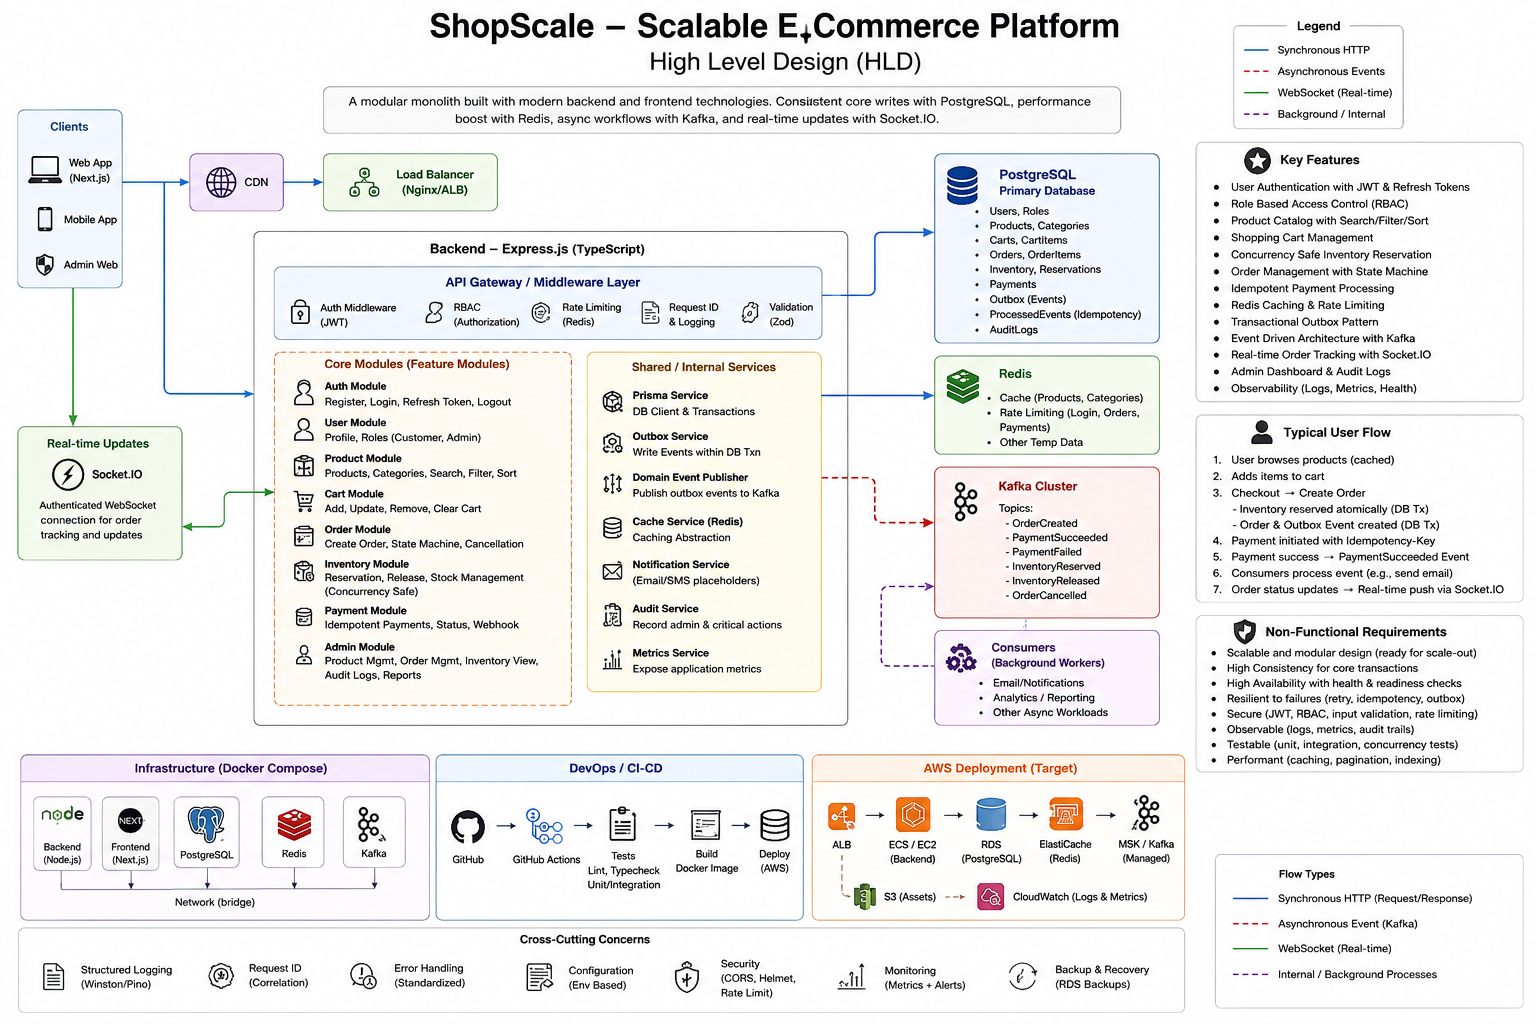
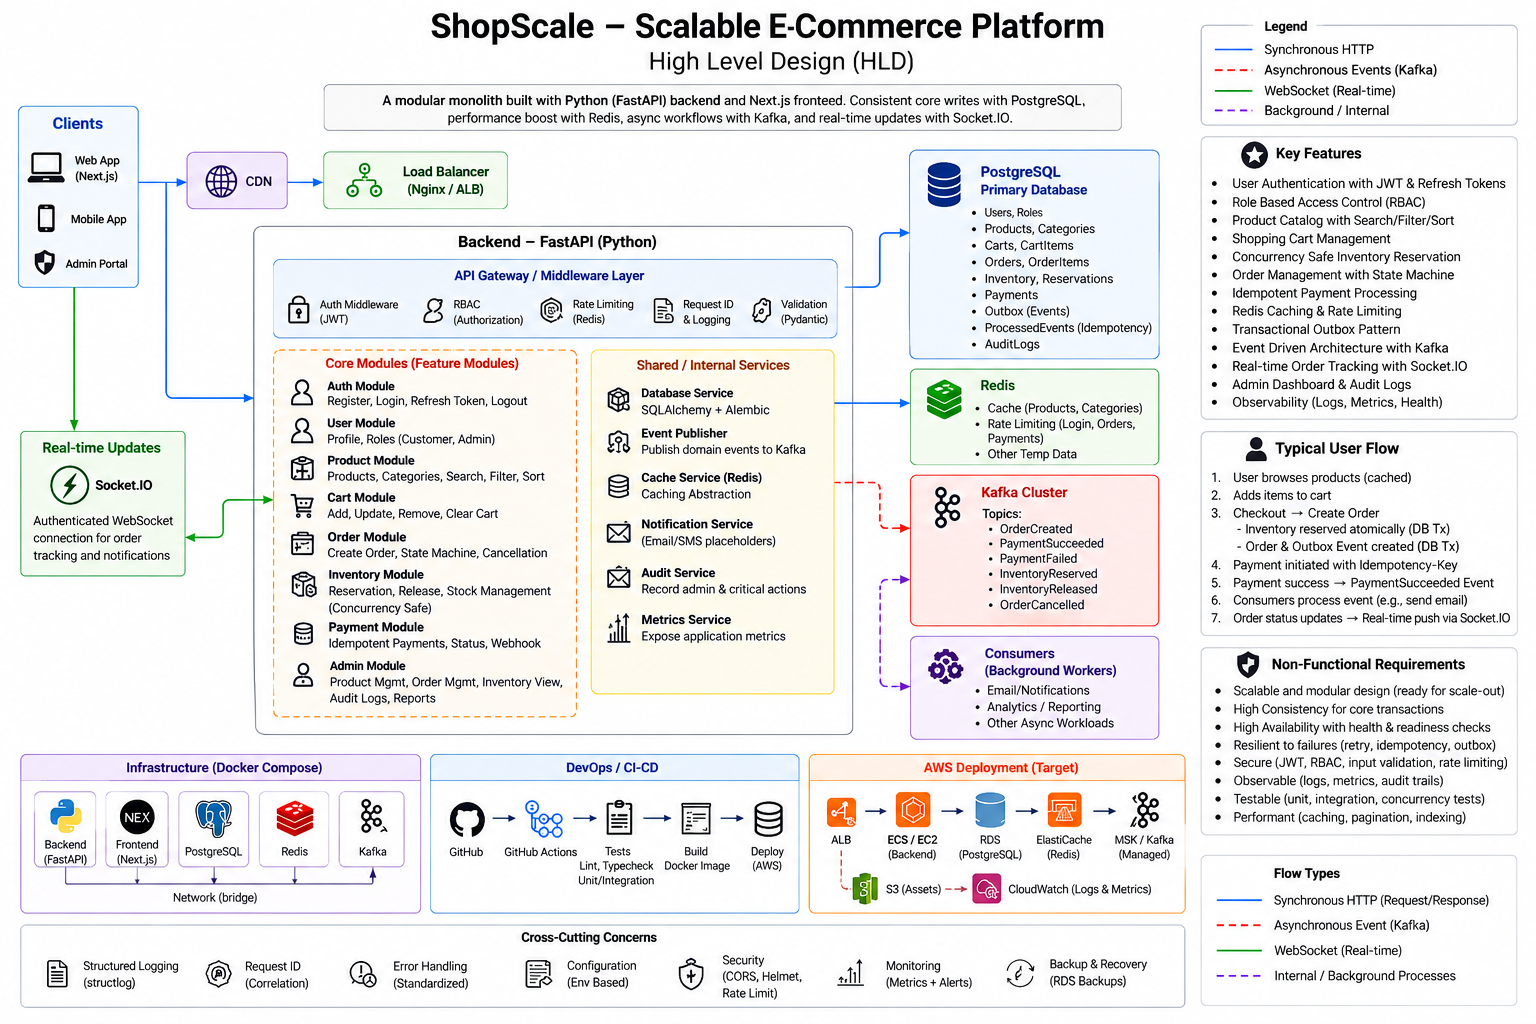
fix: correct platform description in README and update architecture diagram

diff --git a/README.md b/README.md
@@ -1,6 +1,6 @@
 # ShopScale
 
-> **A production-minded e-commerce and order-management platform built as a TypeScript modular monolith.**
+>**A production-minded e-commerce and order-management platform built as a Python modular monolith.**
 
 ShopScale is designed to demonstrate the engineering problems that appear in real backend systems: authentication and authorization, transactional data consistency, concurrent inventory updates, retry-safe payments, caching, rate limiting, asynchronous event processing, real-time updates, testing, observability, CI/CD, and cloud deployment.
 
